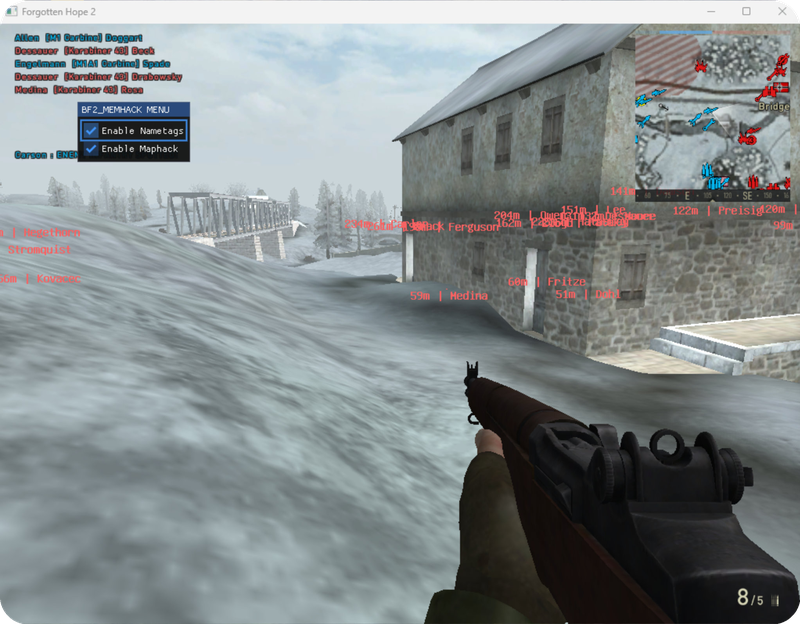
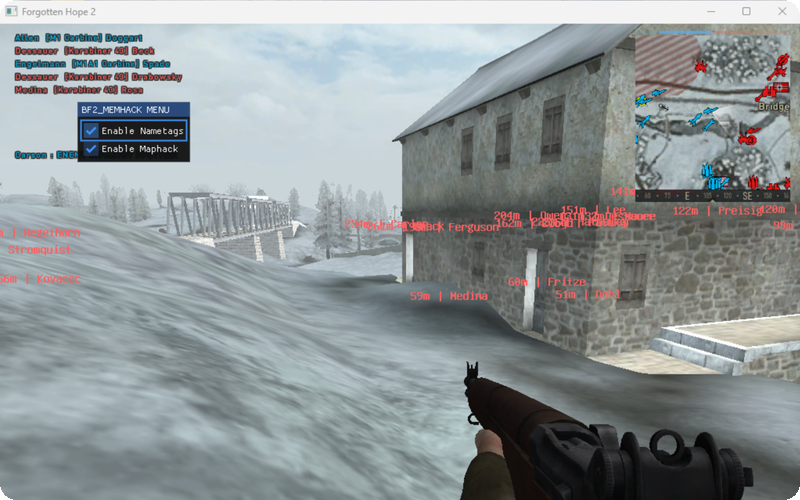
Improved the design

diff --git a/tools/prepare_assets.py b/tools/prepare_assets.py
@@ -1,0 +1,98 @@
+#!/usr/bin/env python3
+"""Regenerate the featured-project screenshots used by README.md.
+
+Every card is normalised to the same 16:10 frame at 800x500 (2x the 400px
+render width) with rounded, transparent corners so it sits correctly on both
+the light and dark GitHub themes.
+
+Run from the repository root:
+
+    python3 tools/prepare_assets.py
+"""
+
+from pathlib import Path
+
+from PIL import Image, ImageDraw
+
+ROOT = Path(__file__).resolve().parent.parent
+ASSETS = ROOT / "assets"
+
+CARD_SIZE = (800, 500)  # 16:10
+CORNER_RADIUS = 16
+
+# Konsole background of the p2p_ft captures, sampled from an empty region.
+TERMINAL_BG = (35, 42, 48)
+
+
+def round_corners(image: Image.Image, radius: int) -> Image.Image:
+    """Return an RGBA copy of *image* with its corners masked out."""
+    image = image.convert("RGBA")
+    mask = Image.new("L", image.size, 0)
+    ImageDraw.Draw(mask).rounded_rectangle(
+        (0, 0, image.width - 1, image.height - 1), radius=radius, fill=255
+    )
+    image.putalpha(mask)
+    return image
+
+
+def finish(image: Image.Image, destination: Path) -> None:
+    """Downscale *image* to the card frame, round it, and write it out."""
+    card = image.convert("RGB").resize(CARD_SIZE, Image.LANCZOS)
+    round_corners(card, CORNER_RADIUS).save(destination)
+    print(f"{destination.relative_to(ROOT)}  {card.size[0]}x{card.size[1]}")
+
+
+def build_ramiel() -> None:
+    """Source is 2497x1565 (1.5955) - trim 4px to land on an exact 16:10."""
+    source = Image.open(ASSETS / "ramiel" / "dashboard.jpg")
+    finish(source.crop((0, 0, 2497, 1561)), ASSETS / "ramiel" / "dashboard-rounded.png")
+
+
+def build_bf2() -> None:
+    """Source is 2045x1596 (1.281) - trim the bottom to reach 16:10.
+
+    Nametags, the in-game menu and the minimap all sit in the upper two
+    thirds, so the crop only loses the lower part of the weapon model.
+    """
+    source = Image.open(ASSETS / "bf2_memhack_v2" / "nametags_and_maphack.jpg")
+    finish(
+        source.crop((0, 0, 2045, 1278)),
+        ASSETS / "bf2_memhack_v2" / "nametags_and_maphack-rounded.png",
+    )
+
+
+def build_p2p_ft() -> None:
+    """Compose both halves of a transfer into a single 16:10 frame.
+
+    No single p2p_ft capture fills a 16:10 frame - each one is a 957x445
+    terminal with text only in the top half. Stacking the sender and the
+    receiver fills the card and shows both ends of the protocol at once.
+
+    Each block is cropped just below its last line of output; the canvas is
+    filled with the terminal background so the padding is seamless.
+    """
+    directory = ASSETS / "p2p_ft"
+    # Text occupies rows 31..203 (sender) and 29..223 (receiver); crop a
+    # little below each to leave a consistent bottom margin inside the block.
+    sender = Image.open(directory / "sender_completed.jpg").crop((0, 0, 957, 228))
+    receiver = Image.open(directory / "receiver_completed.jpg").crop((0, 0, 957, 248))
+
+    gap = 40
+    canvas_height = round(957 / 1.6)  # 598
+    padding = (canvas_height - sender.height - gap - receiver.height) // 2
+
+    canvas = Image.new("RGB", (957, canvas_height), TERMINAL_BG)
+    canvas.paste(sender, (0, padding))
+    canvas.paste(receiver, (0, padding + sender.height + gap))
+
+    finish(canvas, directory / "transfer-rounded.png")
+
+
+def main() -> None:
+    build_ramiel()
+    build_bf2()
+    build_p2p_ft()
+
+
+if __name__ == "__main__":
+    main()

diff --git a/README.md b/README.md
@@ -11,22 +11,26 @@ Building 4G/5G software used by over 1 billion users worldwide.
 
 </div>
 
-## 🚀 Featured Work
+## Featured work
 
 <a href="https://github.com/daniel-konoplanski/ramiel"><img align="left" src="assets/ramiel/dashboard-rounded.png" alt="Ramiel dashboard" width="400" /></a>
 
 ### [ramiel](https://github.com/daniel-konoplanski/ramiel)
 
-Lightweight desktop hardware monitor for Linux — CPU, GPU, memory, storage, network, and display metrics without root access. Reads sensors directly from sysfs/hwmon, with live per-second charts on a customizable dashboard. Actively developed, with packaged releases.
+Desktop hardware monitor for Linux — CPU, GPU, memory, storage, network and display, without root.
+
+Reads sensors straight from sysfs/hwmon and draws live per-second charts on a dashboard you arrange yourself. Actively developed, with packaged releases.
 
 <br clear="left"/>
 <br/>
 
-<a href="https://github.com/daniel-konoplanski/p2p_file_transfer"><img align="left" src="assets/p2p_ft/receiver_req-rounded.png" alt="p2p_ft receiver approval prompt" width="400" /></a>
+<a href="https://github.com/daniel-konoplanski/p2p_file_transfer"><img align="left" src="assets/p2p_ft/transfer-rounded.png" alt="p2p_ft sender and receiver completing a transfer" width="400" /></a>
 
 ### [p2p_ft](https://github.com/daniel-konoplanski/p2p_file_transfer)
 
-Minimal peer-to-peer file transfer tool for Linux. Direct encrypted transfers between two machines over TLS 1.2+ with auto-generated ECDSA certificates, chunked streaming, interactive approval prompts, and real-time progress tracking.
+Peer-to-peer file transfer for Linux — one command on each end, no server in between.
+
+Direct TLS 1.2+ transfers over auto-generated ECDSA certificates, with chunked streaming, live progress, and an interactive approval prompt before anything touches disk.
 
 <br clear="left"/>
 <br/>
@@ -35,51 +39,31 @@ Minimal peer-to-peer file transfer tool for Linux. Direct encrypted transfers be
 
 ### [bf2_memhack_v2](https://github.com/daniel-konoplanski/bf2_memhack_v2)
 
-Reverse-engineering project for Battlefield 2 and compatible mods (Forgotten Hope 2, Project Reality). An injected DLL that reads live game state from process memory — player nametags with distance, enemy positions on the minimap — controlled through an in-game UI menu.
+Reverse-engineering project for Battlefield 2 and its mods (Forgotten Hope 2, Project Reality).
+
+An injected DLL that reads live game state out of process memory — player nametags with distance, enemy positions on the minimap — driven from an in-game menu.
 
 <br clear="left"/>
 
 ### More projects
 
-- **[silverspark](https://github.com/daniel-konoplanski/silverspark)** — AFK automation tool for Conqueror's Blade; deterministic move-settle-click input injection driving the DirectX client, toggled by a global F12 hotkey. `Python · pydirectinput · uv`
-- **[bitmap_manipulator](https://github.com/daniel-konoplanski/bitmap_manipulator)** — Windows Forms desktop app demonstrating four classic image filters with real-time preview. `C# · .NET Framework`
+- **[echo_server_coroutines](https://github.com/daniel-konoplanski/echo_server_coroutines)** — Echo server exploring C++20 coroutines for async I/O, on Boost.Asio and Boost.Cobalt. `C++20 · Boost.Asio · Boost.Cobalt`
 - **[cpp_project_template](https://github.com/daniel-konoplanski/cpp_project_template)** — Batteries-included C++ template: clean src/include/tests layout, CMake presets and toolchains, clang-format/clangd, vcpkg. `CMake · vcpkg`
+- **[silverspark](https://github.com/daniel-konoplanski/silverspark)** — AFK automation for Conqueror's Blade; deterministic move-settle-click input injection driving the DirectX client, toggled by a global F12 hotkey. `Python · pydirectinput · uv`
 
-## 🛠 Tech Stack
+## Tech stack
 
-**Languages**
+**Languages** — C++ · Rust · Python · C# · TypeScript
 
-![C++](https://img.shields.io/badge/C%2B%2B-00599C?style=flat&logo=cplusplus&logoColor=white)
-![Rust](https://img.shields.io/badge/Rust-000000?style=flat&logo=rust&logoColor=white)
-![Python](https://img.shields.io/badge/Python-3776AB?style=flat&logo=python&logoColor=white)
-![C%23](https://img.shields.io/badge/C%23-512BD4?style=flat&logo=dotnet&logoColor=white)
-![TypeScript](https://img.shields.io/badge/TypeScript-3178C6?style=flat&logo=typescript&logoColor=white)
+**Libraries** — STL · Boost · Protocol Buffers · gRPC · OpenSSL · GoogleTest · Tauri · Svelte
 
-**Libraries & Frameworks**
+**Platform** — Linux · CMake · Docker · Jenkins · PostgreSQL · Bash · Git
 
-![STL](https://img.shields.io/badge/STL-00599C?style=flat&logo=cplusplus&logoColor=white)
-![Boost](https://img.shields.io/badge/Boost-F7941E?style=flat&logo=boost&logoColor=white)
-![Protocol Buffers](https://img.shields.io/badge/Protobuf-4285F4?style=flat&logo=protobuf&logoColor=white)
-![gRPC](https://img.shields.io/badge/gRPC-244c5a?style=flat&logo=grpc&logoColor=white)
-![OpenSSL](https://img.shields.io/badge/OpenSSL-721412?style=flat&logo=openssl&logoColor=white)
-![GoogleTest](https://img.shields.io/badge/GoogleTest-4285F4?style=flat&logo=google&logoColor=white)
-![Tauri](https://img.shields.io/badge/Tauri-24C8D8?style=flat&logo=tauri&logoColor=white)
-![Svelte](https://img.shields.io/badge/Svelte-FF3E00?style=flat&logo=svelte&logoColor=white)
-![.NET](https://img.shields.io/badge/.NET-512BD4?style=flat&logo=dotnet&logoColor=white)
-
-**Tools & Platforms**
-
-![PostgreSQL](https://img.shields.io/badge/PostgreSQL-4169E1?style=flat&logo=postgresql&logoColor=white)
-![CMake](https://img.shields.io/badge/CMake-064F8C?style=flat&logo=cmake&logoColor=white)
-![Docker](https://img.shields.io/badge/Docker-2496ED?style=flat&logo=docker&logoColor=white)
-![Jenkins](https://img.shields.io/badge/Jenkins-D24939?style=flat&logo=jenkins&logoColor=white)
-![Bash](https://img.shields.io/badge/Bash-4EAA25?style=flat&logo=gnubash&logoColor=white)
-![Linux](https://img.shields.io/badge/Linux-FCC624?style=flat&logo=linux&logoColor=black)
-![Git](https://img.shields.io/badge/Git-F05032?style=flat&logo=git&logoColor=white)
-
-## 📘 Learning
+## Learning
 
 - [asynchronous_programming_with_cpp](https://github.com/daniel-konoplanski/asynchronous_programming_with_cpp) — examples and tasks from *Asynchronous Programming with C++* by Reguera-Salgado & Rufes
 - [moder_cpp_third_edition](https://github.com/daniel-konoplanski/moder_cpp_third_edition) — examples from *Modern C++ Programming Cookbook, 3rd Edition* by Marius Bancila
 - [the_rust_programming_language](https://github.com/daniel-konoplanski/the_rust_programming_language) — examples from *The Rust Programming Language*
+- [go_by_example](https://github.com/daniel-konoplanski/go_by_example) — working through the Go language basics
 - [leetcode](https://github.com/daniel-konoplanski/leetcode) / [leetcode_rust](https://github.com/daniel-konoplanski/leetcode_rust) — LeetCode solutions in C++ and Rust
+- [getcracked.io](https://github.com/daniel-konoplanski/getcracked.io) — getcracked.io problem solutions in C++
